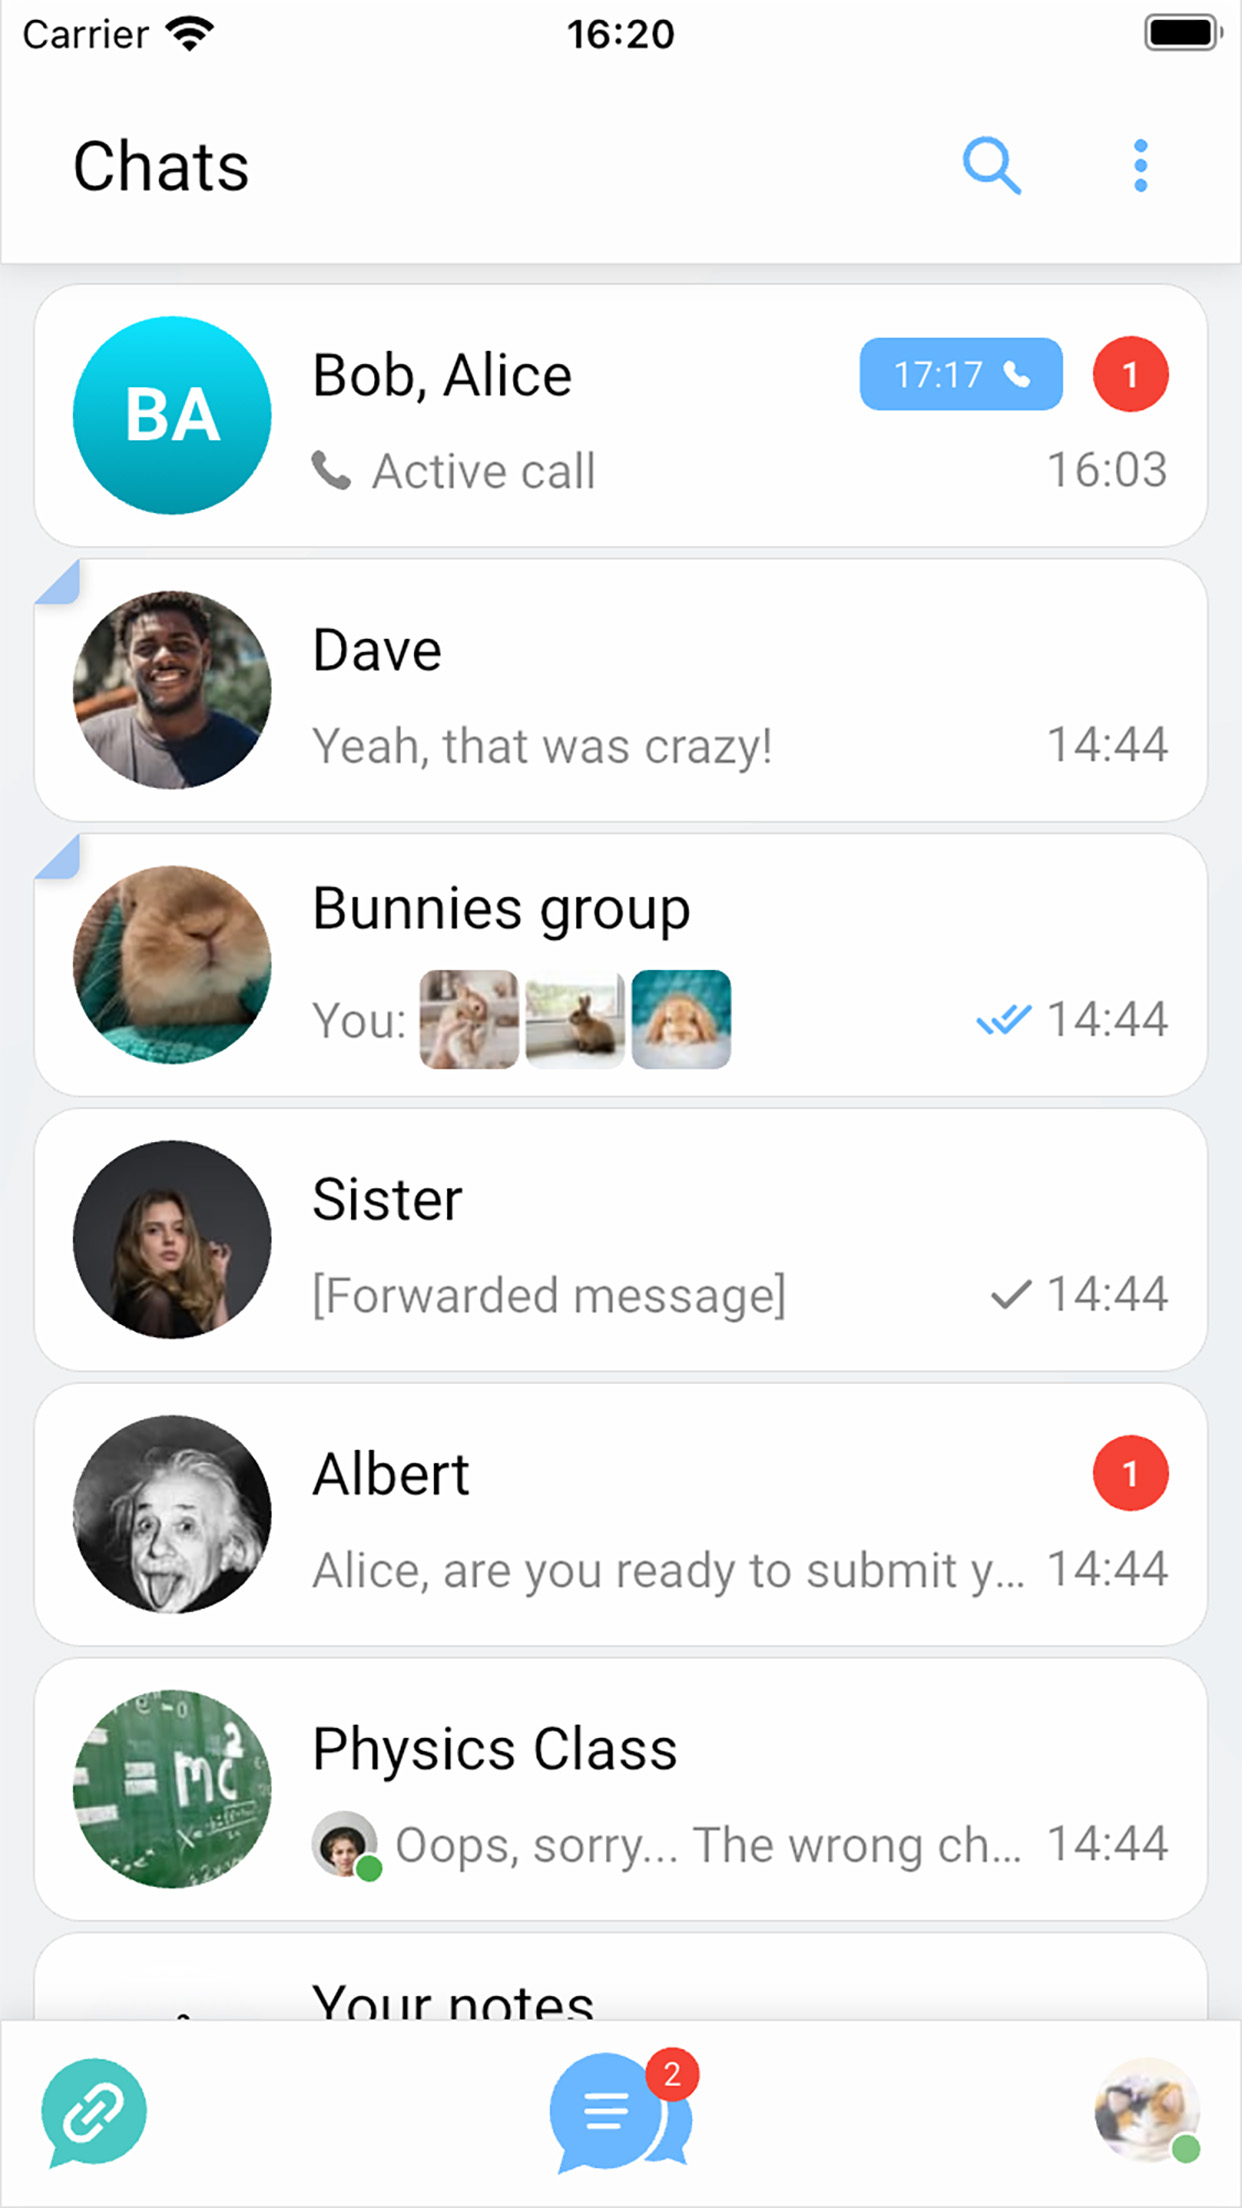
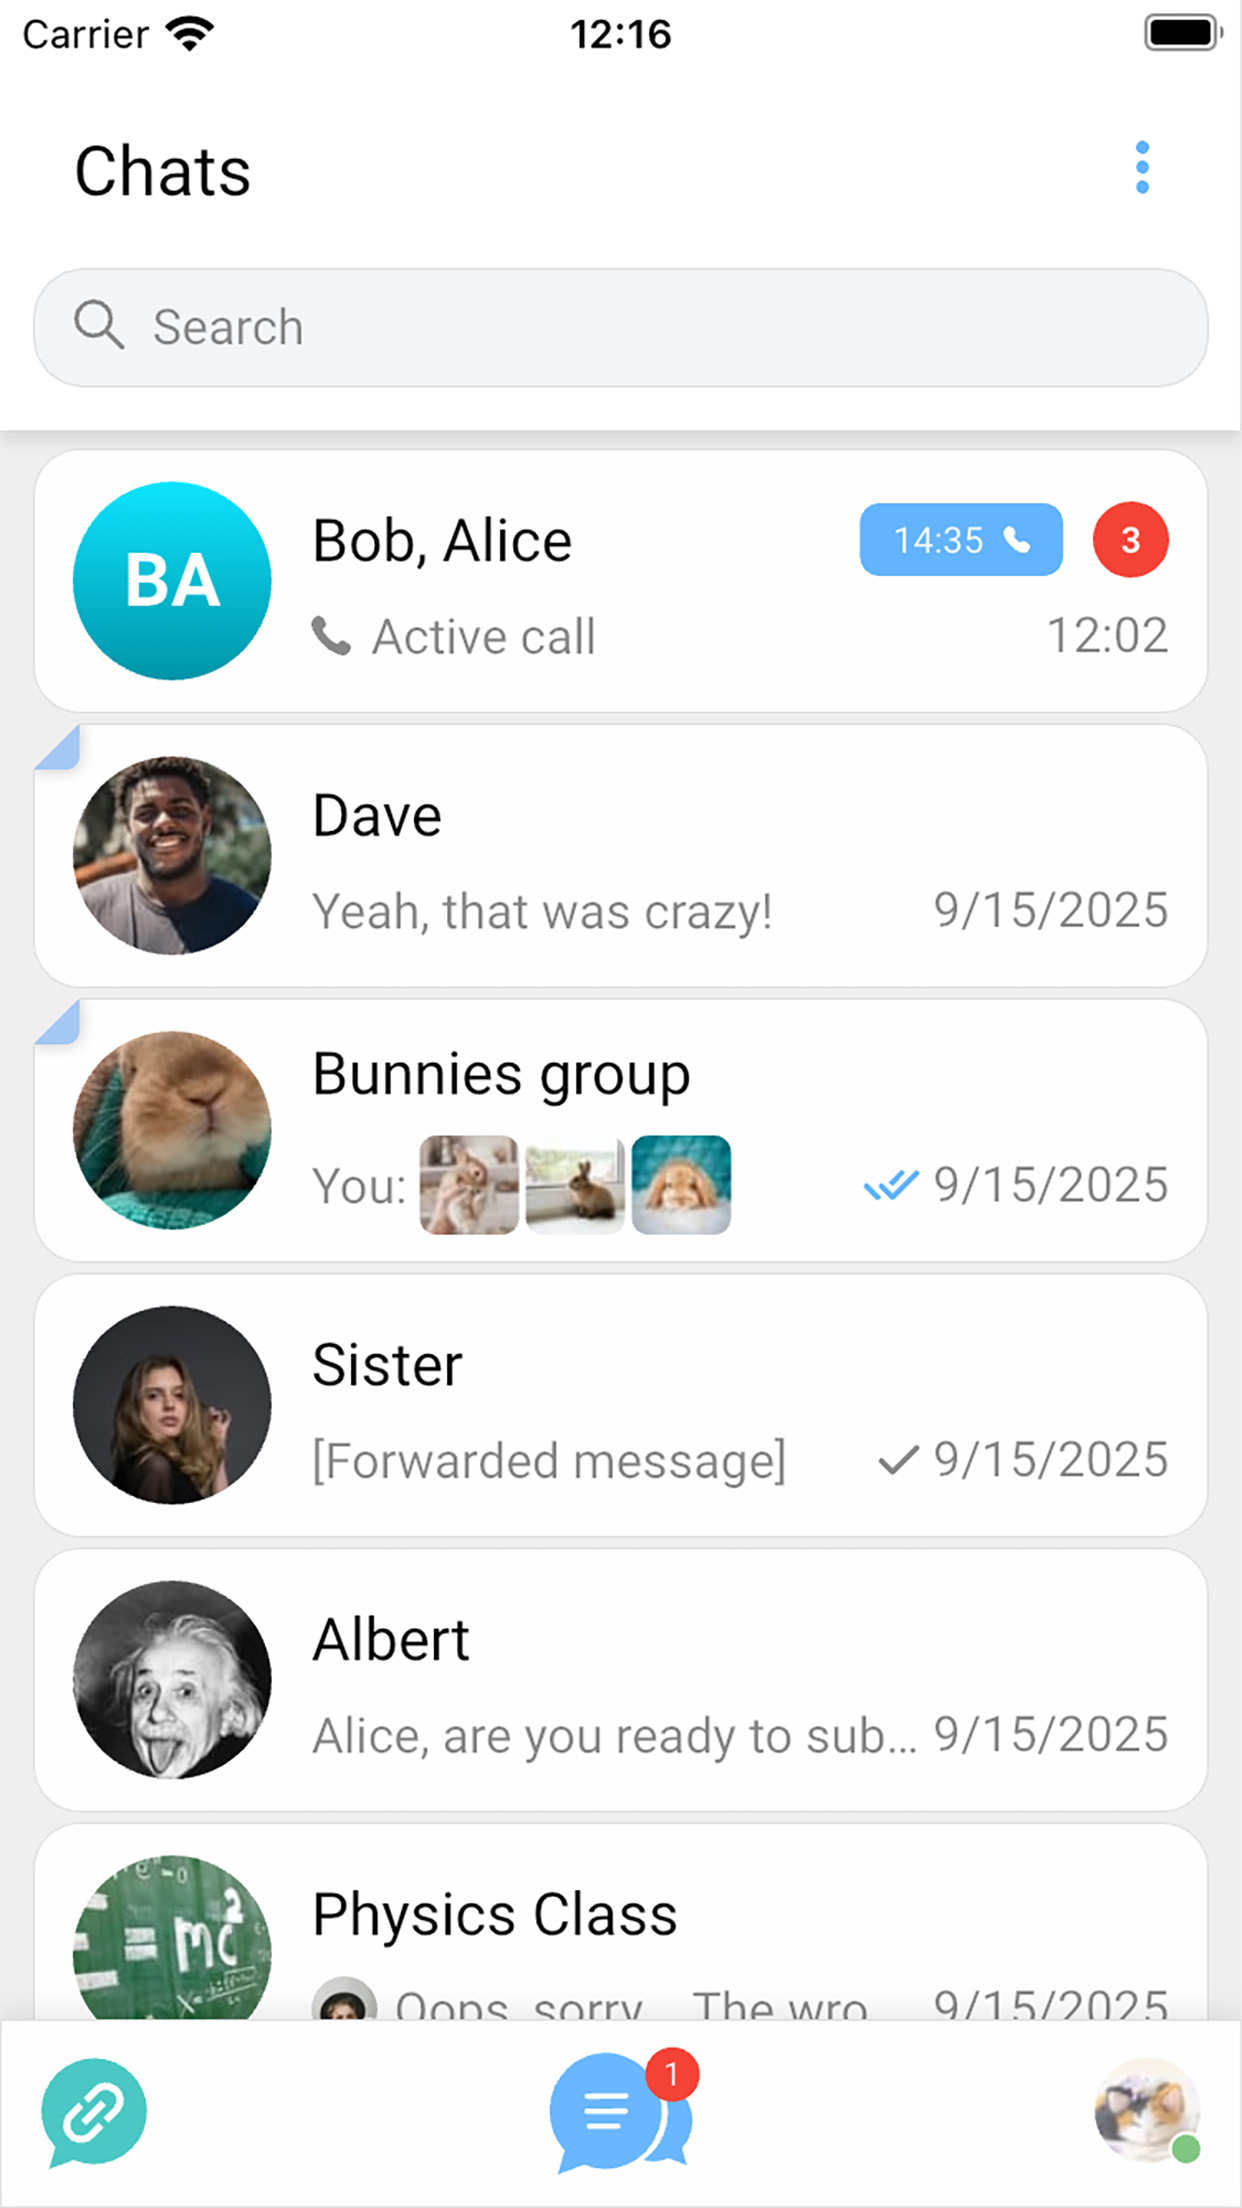
Corrections

diff --git a/release_notes/ru-RU.md b/release_notes/ru-RU.md
@@ -1,1 +1,4 @@
+- Добавлены сочетания клавиш "Ctrl+F"/"Cmd+F" для поиска сообщений в чате.
+- Добавлено отображение "Удалённый Аккаунт" для удалённых пользователей.
+- Обновлена шапка и поиск на вкладке чатов.
 - Исправления ошибок и улучшения производительности.

diff --git a/release_notes/es-ES.md b/release_notes/es-ES.md
@@ -1,2 +1,5 @@
+- Se han añadido los atajos de teclado "Ctrl+F"/"Cmd+F" para activar la búsqueda de mensajes.
+- Se ha añadido el título "Cuenta eliminada" para los usuarios eliminados.
+- Se ha rediseñado la barra de la aplicación y la función de búsqueda en la pestaña de chats.
 - Se corrigieron errores y se mejoraron el rendimiento.
  

diff --git a/CHANGELOG.md b/CHANGELOG.md
@@ -6,7 +6,7 @@ All user visible changes to this project will be documented in this file. This p
 
 
 
-## [0.6.7] · 2025-10-27
+## [0.6.7] · 2025-10-29
 [0.6.7]: /../../tree/v0.6.7
 
 [Diff](/../../compare/v0.6.6...v0.6.7) | [Milestone](/../../milestone/51)

diff --git a/release_notes/en-US.md b/release_notes/en-US.md
@@ -1,1 +1,4 @@
+- Added "Ctrl+F"/"Cmd+F" keyboard shortcuts to toggle messages searching.
+- Added "Deleted Account" title displaying for deleted users.
+- Redesigned app bar and searching on chats tab.
 - Bug fixes and performance improvements.
